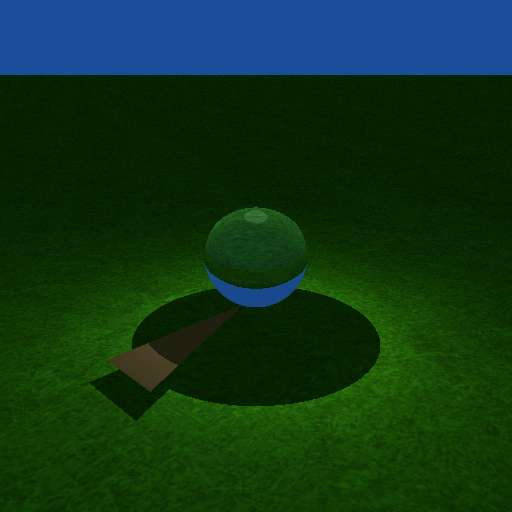
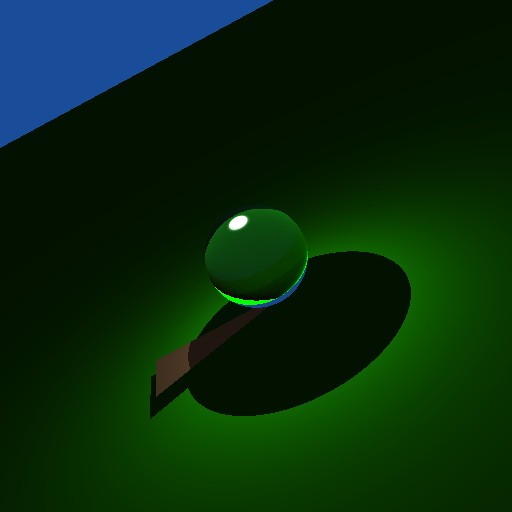
started working on WS7

diff --git a/raytrace/ParticleTracer.cpp b/raytrace/ParticleTracer.cpp
@@ -90,7 +90,13 @@ void ParticleTracer::trace_particle(const Light* light, const unsigned int caust
   // Shoot a particle from the sampled source
   Ray r;
   HitInfo hit;
+  float3 phi;
 
+  light->emit(r, hit, phi);
+
+  if (!hit.has_hit || !scene->is_specular(hit.material)) {
+	  return;
+  }
   // Forward from all specular surfaces
   while(scene->is_specular(hit.material) && hit.trace_depth < 500)
   {
@@ -99,7 +105,14 @@ void ParticleTracer::trace_particle(const Light* light, const unsigned int caust
     case 3:  // mirror materials
       {
         // Forward from mirror surfaces here
-        return;
+		Ray r_out;
+		HitInfo hit_out;
+		if (!trace_reflected(r, hit, r_out, hit_out)) {
+			return;
+		}
+
+		r = r_out;
+		hit = hit_out;
       }
       break;
     case 11: // absorbing volume
@@ -109,10 +122,22 @@ void ParticleTracer::trace_particle(const Light* light, const unsigned int caust
       }
     case 2:  // glossy materials
     case 4:  // transparent materials
-      {
-        // Forward from transparent surfaces here
-        return;
-      }
+	  {
+		// Forward from mirror surfaces here
+		Ray r_out;
+		HitInfo hit_out;
+		float p;
+		trace_refracted(r, hit, r_out, hit_out, p);
+		if(mt_random()<=p){
+			hit_out.has_hit = false;
+			trace_reflected(r, hit, r_out, hit_out);
+		}
+		if (!hit_out.has_hit) {
+			return;
+		}
+		r = r_out;
+		hit = hit_out;
+	  }
       break;
     default: 
       return;
@@ -122,6 +147,7 @@ void ParticleTracer::trace_particle(const Light* light, const unsigned int caust
   // Store in caustics map at first diffuse surface
   // Hint: When storing, the convention is that the photon direction
   //       should point back toward where the photon came from.
+  caustics.store(phi, hit.position, -r.direction);
 }
 
 float3 ParticleTracer::get_diffuse(const HitInfo& hit) const

diff --git a/raytrace/PhotonCaustics.cpp b/raytrace/PhotonCaustics.cpp
@@ -15,20 +15,19 @@ float3 PhotonCaustics::shade(const Ray& r, HitInfo& hit, bool emit) const
   // Make a radiance estimate using the caustics photon map
   //
   // Input:  r          (the ray that hit the material)
-  //         hit        (info about the ray-surface intersection)
-  //         emit       (passed on to Emission::shade)
+  // x        hit        (info about the ray-surface intersection)
+  // x        emit       (passed on to Emission::shade)
   //
   // Return: radiance reflected to where the ray was coming from
   //
   // Relevant data fields that are available (see PhotonCaustics.h and above):
-  // rho_d              (difuse reflectance of the material)
-  // tracer             (pointer to particle tracer)
-  // max_dist           (maximum radius of radiance estimate)
-  // photons            (maximum number of photons to be included in radiance estimate)
+  // rho_d              (diffuse reflectance of the material)
+  // x tracer             (pointer to particle tracer)
+  // x max_dist           (maximum radius of radiance estimate)
+  // x photons            (maximum number of photons to be included in radiance estimate)
   //
   // Hint: Use the function tracer->caustics_irradiance(...) to do an
   //       irradiance estimate using the photon map. This is not the 
   //       same as a radiance estimate.
-  
-  return Lambertian::shade(r, hit, emit);
+  return Lambertian::shade(r, hit, emit) + rho_d * M_1_PIf * tracer->caustics_irradiance(hit, max_dist, photons);
 }

diff --git a/raytrace/RayTracer.cpp b/raytrace/RayTracer.cpp
@@ -24,7 +24,7 @@ bool RayTracer::trace_reflected(const Ray& in, const HitInfo& in_hit, Ray& out, 
     //
     // Hints: (a) There is a reflect function available in the OptiX math library.
     //        (b) Set out_hit.ray_ior and out_hit.trace_depth.
-    out = Ray(in_hit.position, optix::reflect(in.direction, in_hit.shading_normal), 0, 0.0001, in.tmax);  
+    out = Ray(in_hit.position, optix::reflect(in.direction, in_hit.shading_normal), 0, 0.0001, RT_DEFAULT_MAX);  
     out_hit.ray_ior = in_hit.ray_ior;
     out_hit.trace_depth = in_hit.trace_depth + 1;
     return this->trace_to_closest(out, out_hit);
@@ -56,12 +56,10 @@ bool RayTracer::trace_refracted(const Ray& in, const HitInfo& in_hit, Ray& out, 
 	float ior = get_ior_out(in, in_hit, normal);
 	float3 refDir;
 	if (optix::refract(refDir, in.direction, normal, ior / in_hit.ray_ior)) {
-		out = Ray(in_hit.position, refDir, 0, 0.0001, in.tmax);
+		out = Ray(in_hit.position, refDir, 0, 0.0001, RT_DEFAULT_MAX);
 		out_hit.ray_ior = ior;
 		out_hit.trace_depth = in_hit.trace_depth + 1;
 		return trace_to_closest(out, out_hit);
-	}else {
-		return trace_reflected(in, in_hit, out, out_hit);
 	}
 	return false;
 	

diff --git a/raytrace/Glossy.cpp b/raytrace/Glossy.cpp
@@ -34,19 +34,16 @@ float3 Glossy::shade(const Ray& r, HitInfo& hit, bool emit) const
     if (hit.trace_depth >= max_depth)
         return make_float3(0.0f);
 	//return Mirror::shade(r, hit, emit);
+	//return Transparent::shade(r, hit, emit);
+
+	//return Phong::shade(r, hit, emit);
 
     float R;
     Ray reflected, refracted;
     HitInfo hit_reflected, hit_refracted;
     tracer->trace_reflected(r, hit, reflected, hit_reflected);
     tracer->trace_refracted(r, hit, refracted, hit_refracted, R);
-    float3 result = Phong::shade(r, hit, emit) + R * shade_new_ray(reflected, hit_reflected) + (1.0f - R) * shade_new_ray(refracted, hit_refracted);
-    if (abs(result.x - (31.0f / 256)) <= 0.1 && abs(result.y - (31.0f / 256)) <= 0.1 && abs(result.z - (15.0f / 256)) <= 0.1) {
-        int i = 4;
-    }
+    float3 result = R * (Phong::shade(r, hit, emit) + shade_new_ray(reflected, hit_reflected)) + (1.0f - R) * shade_new_ray(refracted, hit_refracted);
     return result;
     
-    //return Transparent::shade(r, hit, emit);
-
-    //return Phong::shade(r, hit, emit);
 }

diff --git a/raytrace/PointLight.cpp b/raytrace/PointLight.cpp
@@ -60,7 +60,7 @@ bool PointLight::emit(Ray& r, HitInfo& hit, float3& Phi) const
   //
   // Relevant data fields that are available (see PointLight.h and Light.h):
   // tracer     (pointer to ray tracer)
-  // light_pos  (position of the point light)
+  // light_pos  (position of the point light) x
   // intensity  (intensity of the emitted light)
   //
   // Hint: When sampling the ray direction, use the function
@@ -72,5 +72,19 @@ bool PointLight::emit(Ray& r, HitInfo& hit, float3& Phi) const
   
   // If a surface was hit, compute Phi and return true
 
-  return false;
+	float3 direction;
+	do
+	{
+		direction.x = 2.0f * mt_random() - 1.0f;
+		direction.y = 2.0f * mt_random() - 1.0f;
+		direction.z = 2.0f * mt_random() - 1.0f;
+	} while (dot(direction, direction) > 1.0f);
+	direction = normalize(direction);
+	
+	r = Ray(light_pos, direction, 0, 1e-4, RT_DEFAULT_MAX);
+	if (!tracer->trace_to_closest(r, hit)) { return false; }
+
+	Phi = intensity * 4 * M_PIf;
+
+	return true;
 }

diff --git a/raytrace/RayCaster.cpp b/raytrace/RayCaster.cpp
@@ -16,18 +16,15 @@ float3 RayCaster::compute_pixel(unsigned int x, unsigned int y) const
 {
     float2 ip_coords = make_float2(x, y) * win_to_ip + lower_left;
 
-	Camera cam = *scene->get_camera();
+	Camera* cam = scene->get_camera();
 	
 	float3 result = make_float3(0);
 	for (float2 jit : jitter) {
-		HitInfo* hitInfo = new HitInfo();
-		Ray ray = cam.get_ray(ip_coords+jit);
-		scene->closest_hit(ray, *hitInfo);
-		if (hitInfo->has_hit) {
-			if (x == 150 && y == 450) {
-				int a = 5;
-			}
-			result += get_shader(*hitInfo)->shade(ray, *hitInfo);
+		HitInfo hitInfo;
+		Ray ray = cam->get_ray(ip_coords+jit);
+		scene->closest_hit(ray, hitInfo);
+		if (hitInfo.has_hit) {
+			result += get_shader(hitInfo)->shade(ray, hitInfo);
 		}
 		else {
 			result += get_background();

diff --git a/raytrace/Phong.cpp b/raytrace/Phong.cpp
@@ -42,10 +42,10 @@ float3 Phong::shade(const Ray& r, HitInfo& hit, bool emit) const
 	  for (int i = 0; i < num_samples; i++) {
 		  float3 light_dir, L;
 		  if (!light->sample(hit.position, light_dir, L)) continue;
-		  // todo: test if angle is positive here
+		  
 		  float3 n = hit.shading_normal;
 		  float3 wi = light_dir;
-		  float3 wr = optix::reflect(wi, n);//2 * dot(wi, n) * n - wi;
+		  float3 wr = optix::reflect(-wi, n);//2 * dot(wi, n) * n - wi;
 		  float3 wo = -normalize(r.direction);
 		  Lr += (rho_d * M_1_PIf + rho_s * (s + 2) * (0.5f * M_1_PIf) * pow(fmax(0,dot(wo, wr)), s)) * L * fmax(0,dot(wi, n));
 	  }

diff --git a/raytrace/Sphere.cpp b/raytrace/Sphere.cpp
@@ -48,7 +48,7 @@ bool Sphere::intersect(const Ray& r, HitInfo& hit, unsigned int prim_idx) const
 
 	float dist = -bhalf - sqrt(b2c);
 	if (dist < r.tmin || dist > r.tmax) { 
-		return false;
+		//return false; //skip code below because it doesn't work
 		dist = -bhalf + sqrt(b2c);
 		if (dist < r.tmin || dist > r.tmax) {
 			return false;
